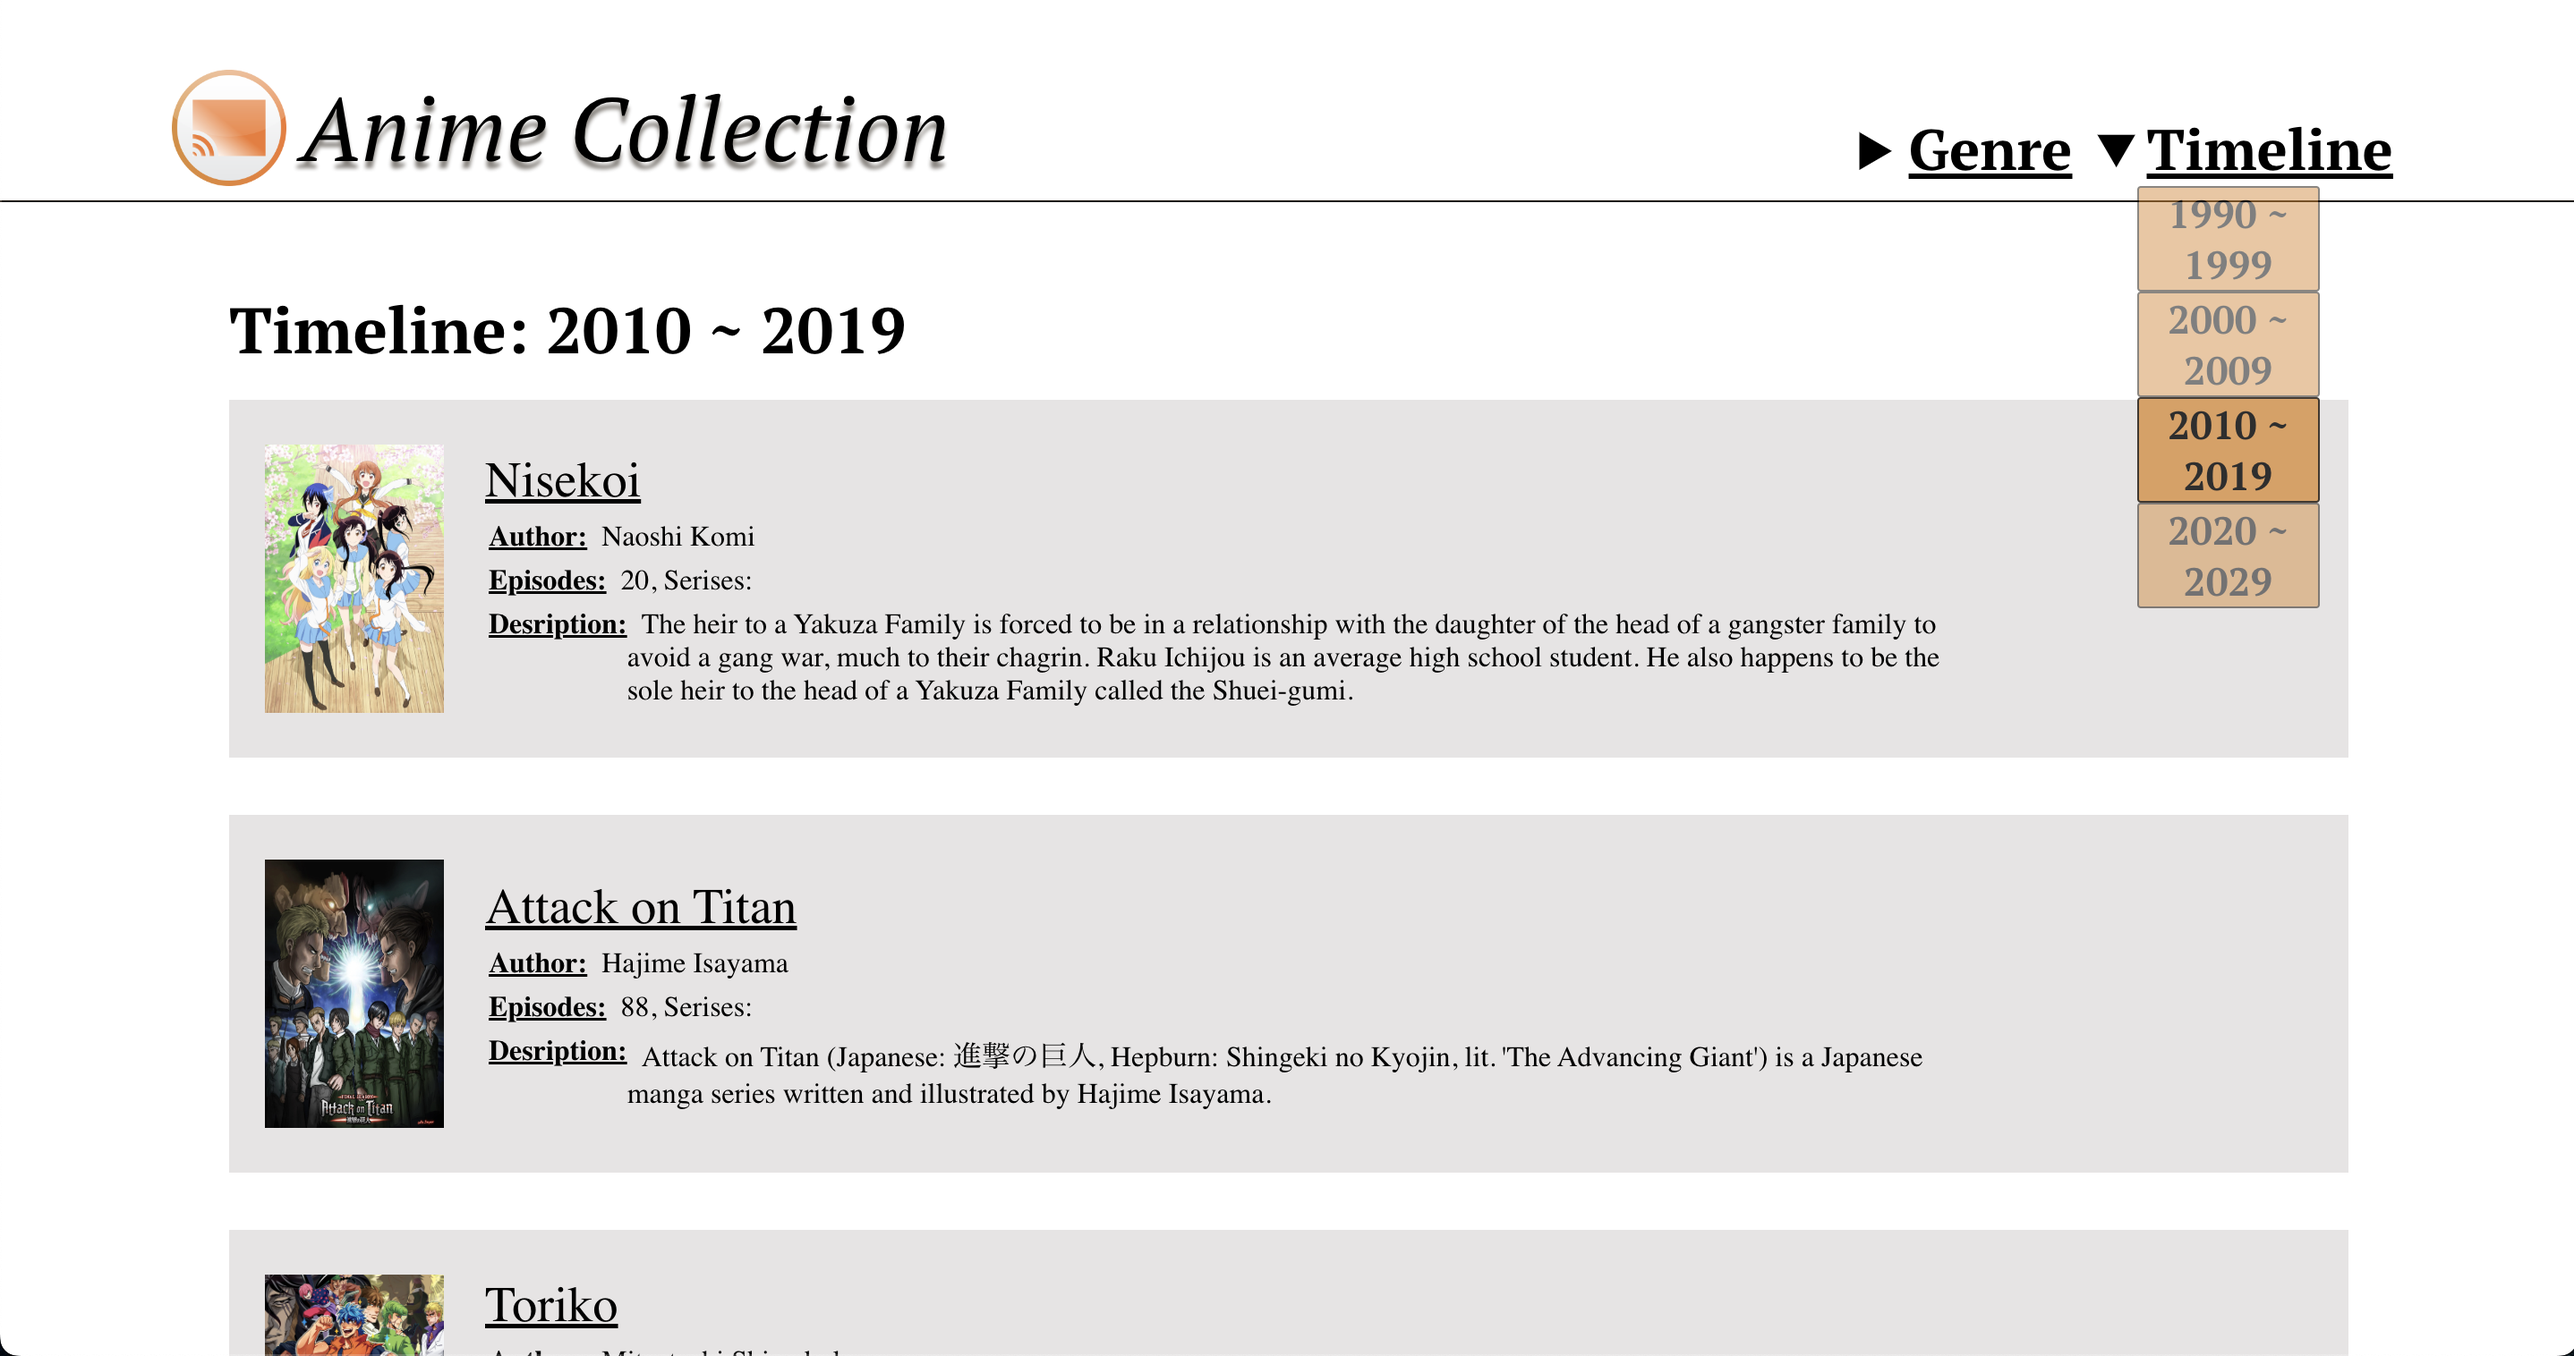
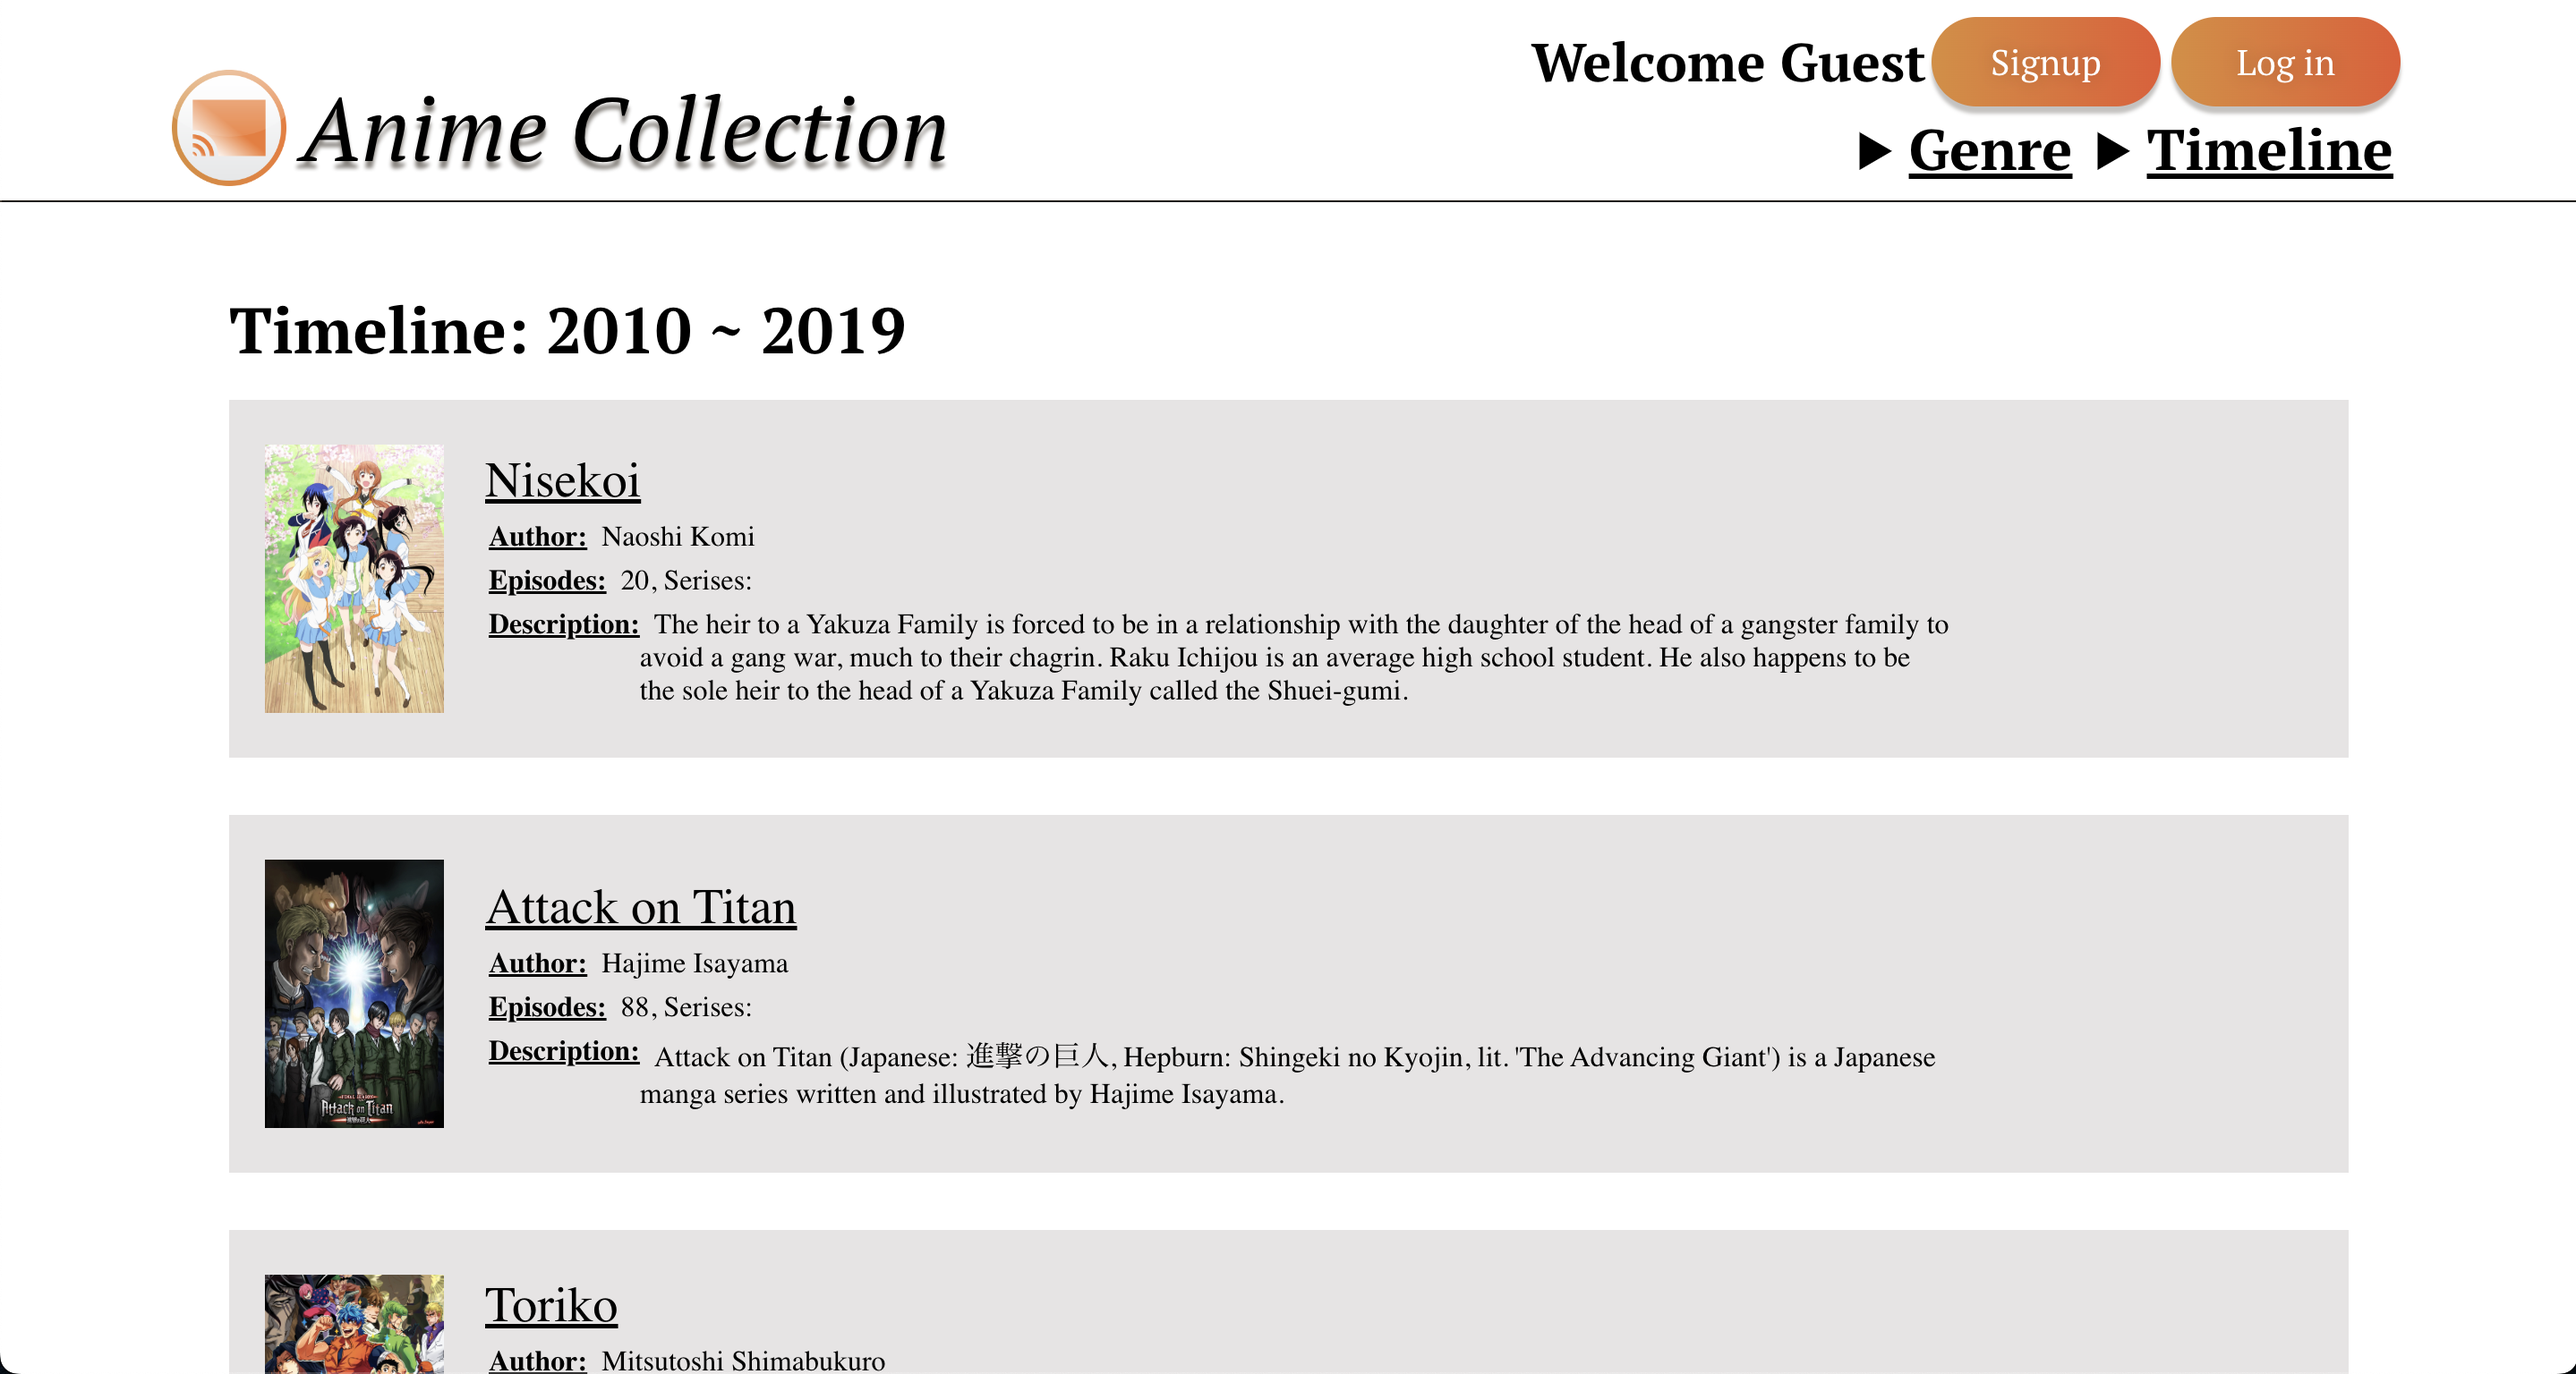
update readme

diff --git a/src/layout/Navbar.css b/src/layout/Navbar.css
@@ -166,9 +166,8 @@
   }
 
   #top-nav .user-name {
-    position: fixed;
-    z-index: 10;
-    right: 30px;
+    position: relative;
+    right: 0px;
     top: 32px;
     font-size: 12px;
   }

diff --git a/README.md b/README.md
@@ -23,7 +23,9 @@
 
 ## • Overview
 
-This is an anime collection website. You can see some popular anime's information. This includes trailer, MAD, author, and characters one. This website is hosted [here](https://anime-collection-fullstack.vercel.app/) using vercel.
+This is an anime collection website. You can see some popular anime's information. This includes trailer, MAD, author, and characters one. Also, this service has authentication function and if you sign up, you get the right to insert comment for each anime!
+
+This website is hosted [here](https://anime-collection-fullstack.vercel.app/) using vercel.
 
 API directory is [here](https://github.com/honganji/anime-collection-api).
 
@@ -35,7 +37,7 @@ API directory is [here](https://github.com/honganji/anime-collection-api).
 - FontAwesome
 - Vercel
 ### Backend
-- Java(Spring)
+- Java(Spring Boot, Spring Security)
 - Google Cloud(API)
 - MySQL
 - Aiven(DB)
@@ -52,9 +54,10 @@ API directory is [here](https://github.com/honganji/anime-collection-api).
 
 ### Detail
 ![Detail_1](./public/desktop/detail/detail_1.png)
-![Detail_1](./public/desktop/detail/detail_2.png)
-![Detail_1](./public/desktop/detail/detail_3.png)
-![Detail_1](./public/desktop/detail/detail_4.png)
+![Detail_5](./public/desktop/detail/detail_5.png)
+![Detail_3](./public/desktop/detail/detail_3.png)
+![Detail_4](./public/desktop/detail/detail_4.png)
+![Detail_2](./public/desktop/detail/detail_2.png)
 
 ## • Frontend images(Mobile)
 ### Home
